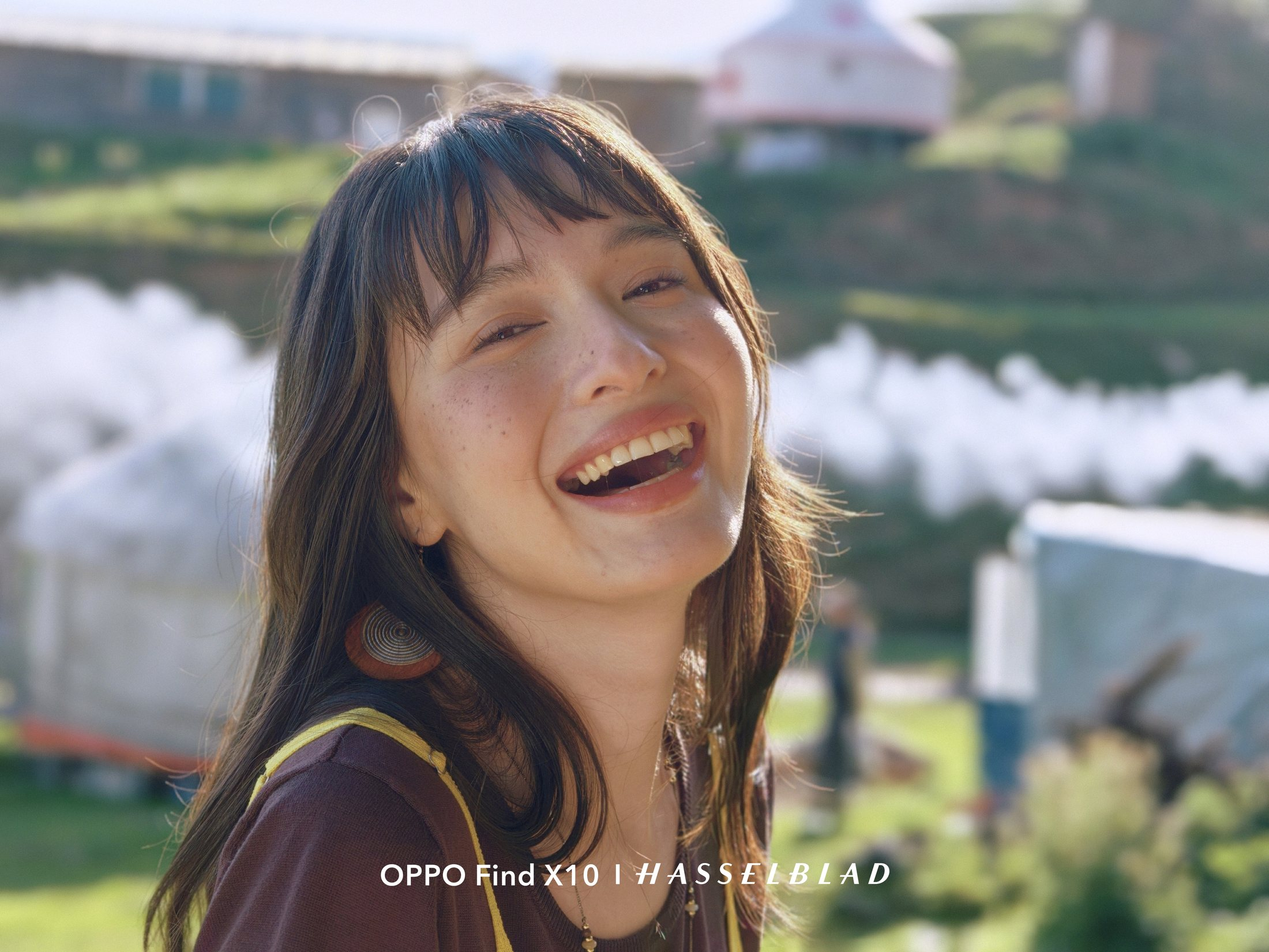
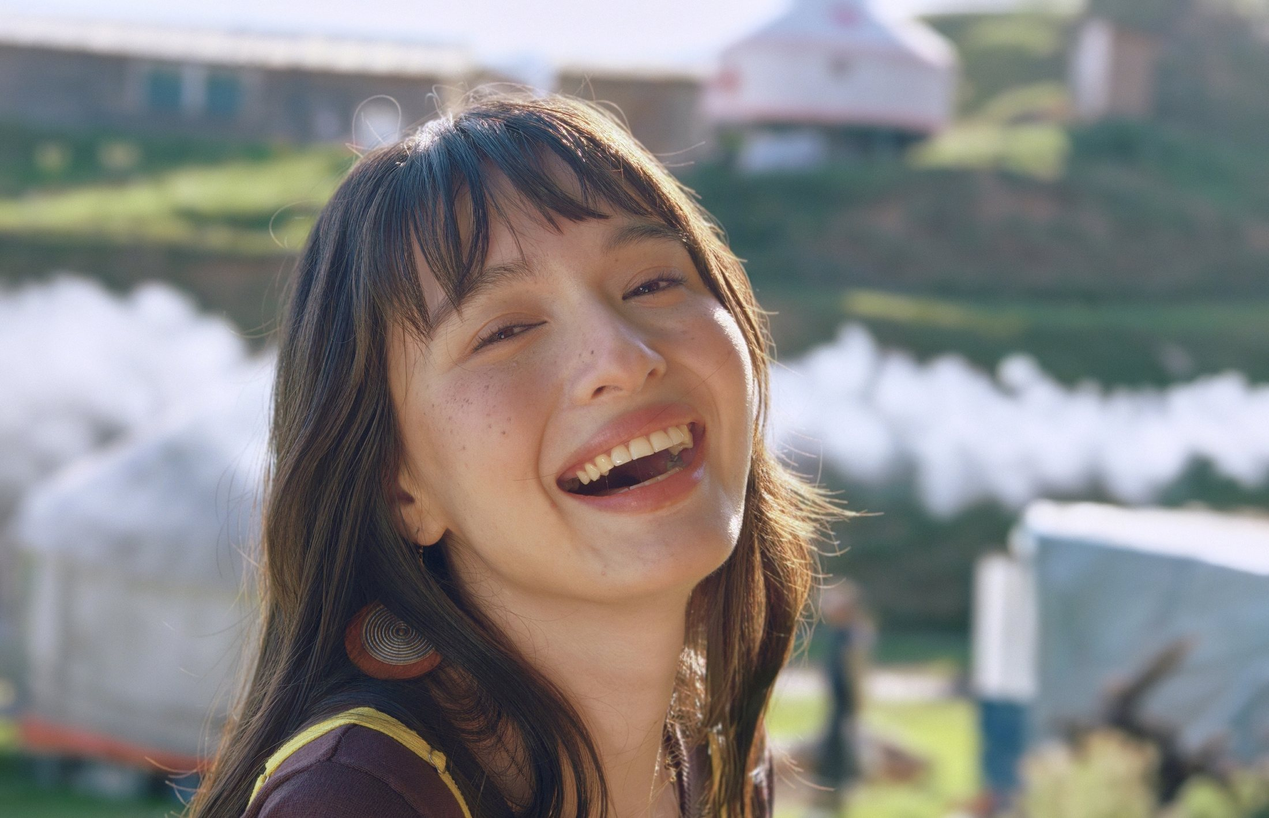
Crop watermark from community photo, darker scrim on phones
Claude-Session: https://claude.ai/code/session_01PN2AoZmucHfzAp47asHymQ

diff --git a/app/globals.css b/app/globals.css
@@ -264,7 +264,8 @@ table.prizes .now { display: inline-block; margin-left: 10px; font-size: 12px; l
 /* Community */
 .community { position: relative; color: var(--white); background: #101010; overflow: hidden; }
 .community-img { position: absolute; inset: 0; width: 100%; height: 100%; object-fit: cover; opacity: 0.55; }
-.community-shade { position: absolute; inset: 0; background: linear-gradient(90deg, rgba(0, 0, 0, 0.85) 0%, rgba(0, 0, 0, 0.5) 60%, rgba(0, 0, 0, 0.3) 100%); }
+.community-shade { position: absolute; inset: 0; background: linear-gradient(90deg, rgba(0, 0, 0, 0.85) 0%, rgba(0, 0, 0, 0.55) 60%, rgba(0, 0, 0, 0.35) 100%); }
+@media (max-width: 760px) { .community-shade { background: rgba(0, 0, 0, 0.7); } }
 .community .container { position: relative; }
 .community-grid { display: grid; gap: 28px; margin-top: 48px; }
 @media (min-width: 800px) { .community-grid { grid-template-columns: repeat(4, 1fr); gap: 32px; } }
